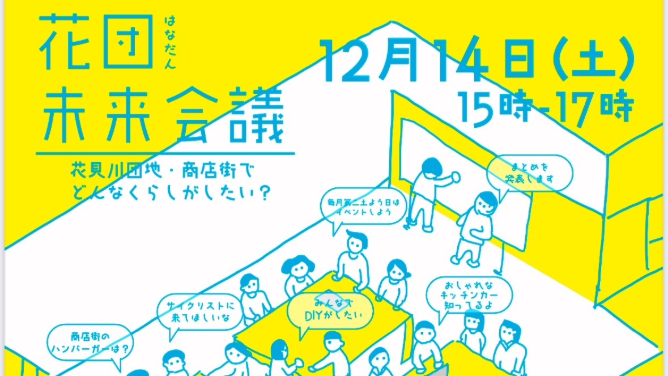
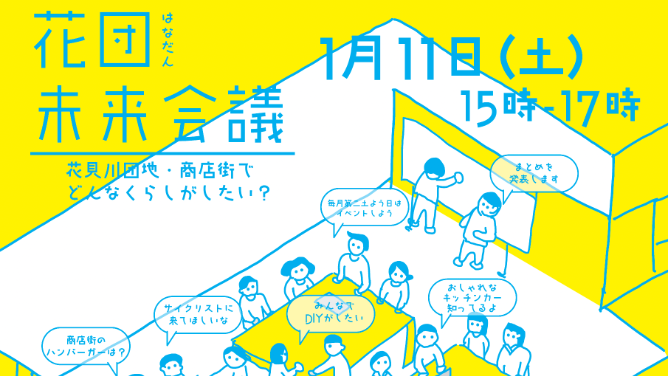
1月花団未来会議追加

Changed region(s): [[0.0, 0.0, 1.0, 1.0], [0.8084, 0.7314, 0.8383, 0.7606]]

diff --git a/event_news/detail/index_4.html b/event_news/detail/index_4.html
@@ -6,7 +6,7 @@
 <meta name="robots" content="ALL">
 <meta name="description" content="千葉県千葉市の花見川団地内にある花見川団地商店街の公式ウェブサイトです。">
 <meta name="format-detection" content="telephone=no">
-<title>イベント&#65286;ニュース | 花見川団地商店街</title>
+<title>1月も花団未来会議を開催します | 花見川団地商店街</title>
 <link rel="icon" href="/favicon.ico" />
 <link rel="stylesheet" href="/common/css/swiper-bundle.min.css" />
 <link rel="stylesheet" href="/common/css/luminous-basic.min.css" />
@@ -53,7 +53,7 @@ height="0" width="0" style="display:none;visibility:hidden"></iframe></noscript>
 <!-- start (SPheader) -->
 <div class="header__sp-wrap sp-only">
 <div class="header__sp">
-<div class="header__sp-content js-login-overlay">
+<div class="header__sp-content ">
 <div class="header__sp-logo">
 <a href="/index.html" tabindex="100"><img src="/common/images/logo.png" alt="花見川団地商店街"></a>
 </div>
@@ -61,7 +61,7 @@ height="0" width="0" style="display:none;visibility:hidden"></iframe></noscript>
 <div class="header__sp-btn-insta" tabindex="100">
 <a href="https://www.instagram.com/hanamigawa_danchi_market/" target="_blank" tabindex="100"><img src="/common/images/Instagram_black.png" alt="インスタグラムアイコン"></a>
 </div>
-<div class="header__sp-btn-menu js-login-overlay js-menu-open-sp" tabindex="100">
+<div class="header__sp-btn-menu  js-menu-open-sp" tabindex="100">
 <span></span>
 </div>
 </div>
@@ -112,87 +112,23 @@ height="0" width="0" style="display:none;visibility:hidden"></iframe></noscript>
 <div id="breadcrumbTop">
 <ul>
 <li><a href="/index.html" tabindex="100">ホーム</a><span>&gt;</span></li>
-<li>イベント&#65286;ニュース</li>
+<li><a href="/event_news/index.html" tabindex="100">イベント&#65286;ニュース</a><span>&gt;</span></li>
+<li>1月も花団未来会議を開催します</li>
 </ul>
 <!--end #breadcrumbTop--></div>
 <main class="content">
 <article>
-<h1 class="hidden">イベント&#65286;ニュース</h1>
+<h1 class="content__title content__title--important">1月も花団未来会議を開催します<br class="pc-only">（開催日時：1/11（土）15:00〜17:00）</h1>
 <section class="section">
-<div class="news">
-<div class="news__inner">
-<div class="news-wrap">
-<a href="/event_news/detail/index_4.html" tabindex="200"  class="news-item__link">
-<div class="news-item__head"><p class="news__label-event">イベント</p></div>
-<div class="news-item__body">
-<p class="news-item__title">1月も花団未来会議を開催します（開催日時：1/11（土）15:00〜17:00）</p>
-<p class="news-item__date">2025.1.8（水）</p>
+<div class="section__inner">
+<p class="section__text-bold">今回は3月に行われる「100円商店街」の企画を考えます！</p>
+<div class="section__image-box">
+<img class="section__image section__image--radius" src="images/4_img_01.jpg" alt="花見川団地商店街ウェブサイト" />
 </div>
-</a>
-<a href="https://www.nhk.jp/p/72hours/ts/W3W8WRN8M3/episode/te/NRX9VG2Z6Y/" tabindex="200" target="_blank" class="news-item__link">
-<div class="news-item__head"><p class="news__label-news">ニュース</p></div>
-<div class="news-item__body">
-<p class="news-item__title">【メディア紹介】NHK「ドキュメント72時間」花見川団地が舞台となりました</p>
-<p class="news-item__date">2025.01.02（木）</p>
-</div>
-</a>
-<a href="/event_news/detail/index_3.html" tabindex="200"  class="news-item__link">
-<div class="news-item__head"><p class="news__label-event">イベント</p></div>
-<div class="news-item__body">
-<p class="news-item__title">12月も花団未来会議を開催します（終了）</p>
-<p class="news-item__date">2024.12.13（金）</p>
-</div>
-</a>
-<a href="/event_news/detail/index_2.html" tabindex="200"  class="news-item__link">
-<div class="news-item__head"><p class="news__label-event">イベント</p></div>
-<div class="news-item__body">
-<p class="news-item__title">歳末福引セールのお知らせ（終了）</p>
-<p class="news-item__date">2024.12.13（金）</p>
-</div>
-</a>
-<a href="/event_news/detail/index_1.html" tabindex="200" class="news-item__link">
-<div class="news-item__head"><p class="news__label-news">ニュース</p></div>
-<div class="news-item__body">
-<p class="news-item__title">花見川団地商店街ウェブサイトリニューアルのお知らせ</p>
-<p class="news-item__date">2024.12.07（土）</p>
-</div>
-</a>
-<a href="https://www.instagram.com/p/DCGAb8hTGco/?utm_source=ig_web_copy_link&igsh=MzRlODBiNWFlZA==" tabindex="200" target="_blank" class="news-item__link">
-<div class="news-item__head"><p class="news__label-event">イベント</p></div>
-<div class="news-item__body">
-<p class="news-item__title">＼＼ 第25回 100円商店街 開催！（終了） ／／</p>
-<p class="news-item__date">2024.11.09（土）</p>
-</div>
-</a>
-<a href="https://www.instagram.com/p/DBz46t2z3fB/?utm_source=ig_web_copy_link&igsh=MzRlODBiNWFlZA==" tabindex="200" target="_blank" class="news-item__link">
-<div class="news-item__head"><p class="news__label-event">イベント</p></div>
-<div class="news-item__body">
-<p class="news-item__title">11月も花団未来会議を開催します（終了）</p>
-<p class="news-item__date">開催日：2024.11.02（土）15:00〜17:00</p>
-</div>
-</a>
-<a href="/shop/maamu/index.html" tabindex="200" class="news-item__link">
-<div class="news-item__head"><p class="news__label-news">ニュース</p></div>
-<div class="news-item__body">
-<p class="news-item__title">【ライフファッション まぁむ】7月大売出しのお知らせ</p>
-<p class="news-item__date">2024.07.11（木）</p>
-</div>
-</a>
-<a href="/shop/wakaba/index.html" tabindex="200" class="news-item__link">
-<div class="news-item__head"><p class="news__label-news">ニュース</p></div>
-<div class="news-item__body">
-<p class="news-item__title">【わかば理容】4月予定更新しました！</p>
-<p class="news-item__date">2024.03.20（水）</p>
-</div>
-</a>
-<a href="https://prtimes.jp/main/html/rd/p/000000124.000001246.html" tabindex="200" target="_blank" class="news-item__link">
-<div class="news-item__head"><p class="news__label-news">ニュース</p></div>
-<div class="news-item__body">
-<p class="news-item__title">ＭＵＪＩ×ＵＲ団地まるごとリノベーション完成のお知らせ</p>
-<p class="news-item__date">2024.03.14（木）</p>
-</div>
-</a>
-</div>
+<h2 class="section-h2__title">場所</h2>
+<div class="section-map">
+<div class="section-map__inner">
+<iframe src="https://www.google.com/maps/embed?pb=!1m18!1m12!1m3!1d220.86469375319047!2d140.09506651154766!3d35.68830054997204!2m3!1f0!2f0!3f0!3m2!1i1024!2i768!4f13.1!3m3!1m2!1s0x602281d303babd1d%3A0x63892a6474da9a33!2z44Os44Oz44K_44Or44K544Oa44O844K5IOOBr-OBquOBv-OBjOOCj0xES--8iw!5e0!3m2!1sja!2sjp!4v1736331841567!5m2!1sja!2sjp" width="100%" height="365" style="border:0;" allowfullscreen="" loading="lazy" referrerpolicy="no-referrer-when-downgrade"></iframe>
 </div>
 </div>
 </section>
@@ -201,7 +137,8 @@ height="0" width="0" style="display:none;visibility:hidden"></iframe></noscript>
 <div id="breadcrumbBottom">
 <ul>
 <li><a href="/index.html" tabindex="100">ホーム</a><span>&gt;</span></li>
-<li>イベント&#65286;ニュース</li>
+<li><a href="/event_news/index.html" tabindex="100">イベント&#65286;ニュース</a><span>&gt;</span></li>
+<li>1月も花団未来会議を開催します</li>
 </ul>
 <!--end #breadcrumbBottom--></div>
 <footer class="footer">

diff --git a/index.html b/index.html
@@ -112,23 +112,21 @@ height="0" width="0" style="display:none;visibility:hidden"></iframe></noscript>
 <div class="top-keyvisual__inner">
 <div class="top-keyvisual-carousel js-swiper-top-keyvisual">
 <div class="top-keyvisual-carousel__inner swiper-wrapper">
-<!--
 <div class="top-keyvisual-content swiper-slide">
 <div class="top-keyvisual-content__inner">
-<a class="" href="/event_news/detail/index_3.html" tabindex="200">
+<a class="" href="/event_news/detail/index_4.html" tabindex="200">
 <div class="top-keyvisual-image">
 <img src="common/images/kv_04_img.jpg" alt="花団未来会議" />
 </div>
 <div class="top-keyvisual-info">
-<p class="top-keyvisual__title"><span>花団未来会議@LDK+</span></p>
-<p class="top-keyvisual__sub-title"><span>開催日時：12/14（土）15:00〜17:00
+<p class="top-keyvisual__title"><span>花団未来会議</span></p>
+<p class="top-keyvisual__sub-title">開催日時：1/11（土）15:00〜17:00<span>
 </span></p>
-<p class="top-keyvisual__lead"><span>今回は11月に行われた「100円商店街」の報告などをやりますので参加者の方から色々な話を聞く事が出来ますよー！！<br class="top-sp-hidden" /></span></p>
+<p class="top-keyvisual__lead"><span>今回は3月に行われる「100円商店街」の企画を考えます！<br>場所はLDK+（商店街南側）になります。<br class="top-sp-hidden" /></span></p>
 </div>
 </a>
 </div>
 </div>
--->
 <div class="top-keyvisual-content swiper-slide">
 <div class="top-keyvisual-content__inner">
 <a class="" href="/articles/detail/index_1.html" tabindex="200">
@@ -159,7 +157,7 @@ height="0" width="0" style="display:none;visibility:hidden"></iframe></noscript>
 </div>
 <div class="top-keyvisual-content swiper-slide">
 <div class="top-keyvisual-content__inner">
-<a class="" href="https://www.instagram.com/p/DDGkhZNv9zn/?utm_source=ig_web_copy_link&igsh=MzRlODBiNWFlZA==" target="_blank" tabindex="200">
+<a class="" href="https://www.instagram.com/p/DEjInsMPtiA/?utm_source=ig_web_copy_link&igsh=MzRlODBiNWFlZA==" target="_blank" tabindex="200">
 <div class="top-keyvisual-image">
 <img src="common/images/kv_03_img.jpg" alt="だがし屋えがお" />
 </div>
@@ -233,6 +231,13 @@ height="0" width="0" style="display:none;visibility:hidden"></iframe></noscript>
 <div class="news__inner">
 <h2 class="section-h2__title aln-center">イベント&#65286;ニュース<span class="section__title-sub">EVENT&#65286;NEWS</span></h2>
 <div class="news-wrap">
+<a href="/event_news/detail/index_4.html" tabindex="200"  class="news-item__link">
+<div class="news-item__head"><p class="news__label-event">イベント</p></div>
+<div class="news-item__body">
+<p class="news-item__title">1月も花団未来会議を開催します（開催日時：1/11（土）15:00〜17:00）</p>
+<p class="news-item__date">2025.1.8（水）</p>
+</div>
+</a>
 <a href="https://www.nhk.jp/p/72hours/ts/W3W8WRN8M3/episode/te/NRX9VG2Z6Y/" tabindex="200" target="_blank" class="news-item__link">
 <div class="news-item__head"><p class="news__label-news">ニュース</p></div>
 <div class="news-item__body">
@@ -244,13 +249,6 @@ height="0" width="0" style="display:none;visibility:hidden"></iframe></noscript>
 <div class="news-item__head"><p class="news__label-event">イベント</p></div>
 <div class="news-item__body">
 <p class="news-item__title">12月も花団未来会議を開催します（終了）</p>
-<p class="news-item__date">2024.12.13（金）</p>
-</div>
-</a>
-<a href="/event_news/detail/index_2.html" tabindex="200"  class="news-item__link">
-<div class="news-item__head"><p class="news__label-event">イベント</p></div>
-<div class="news-item__body">
-<p class="news-item__title">歳末福引セールのお知らせ（終了）</p>
 <p class="news-item__date">2024.12.13（金）</p>
 </div>
 </a>
